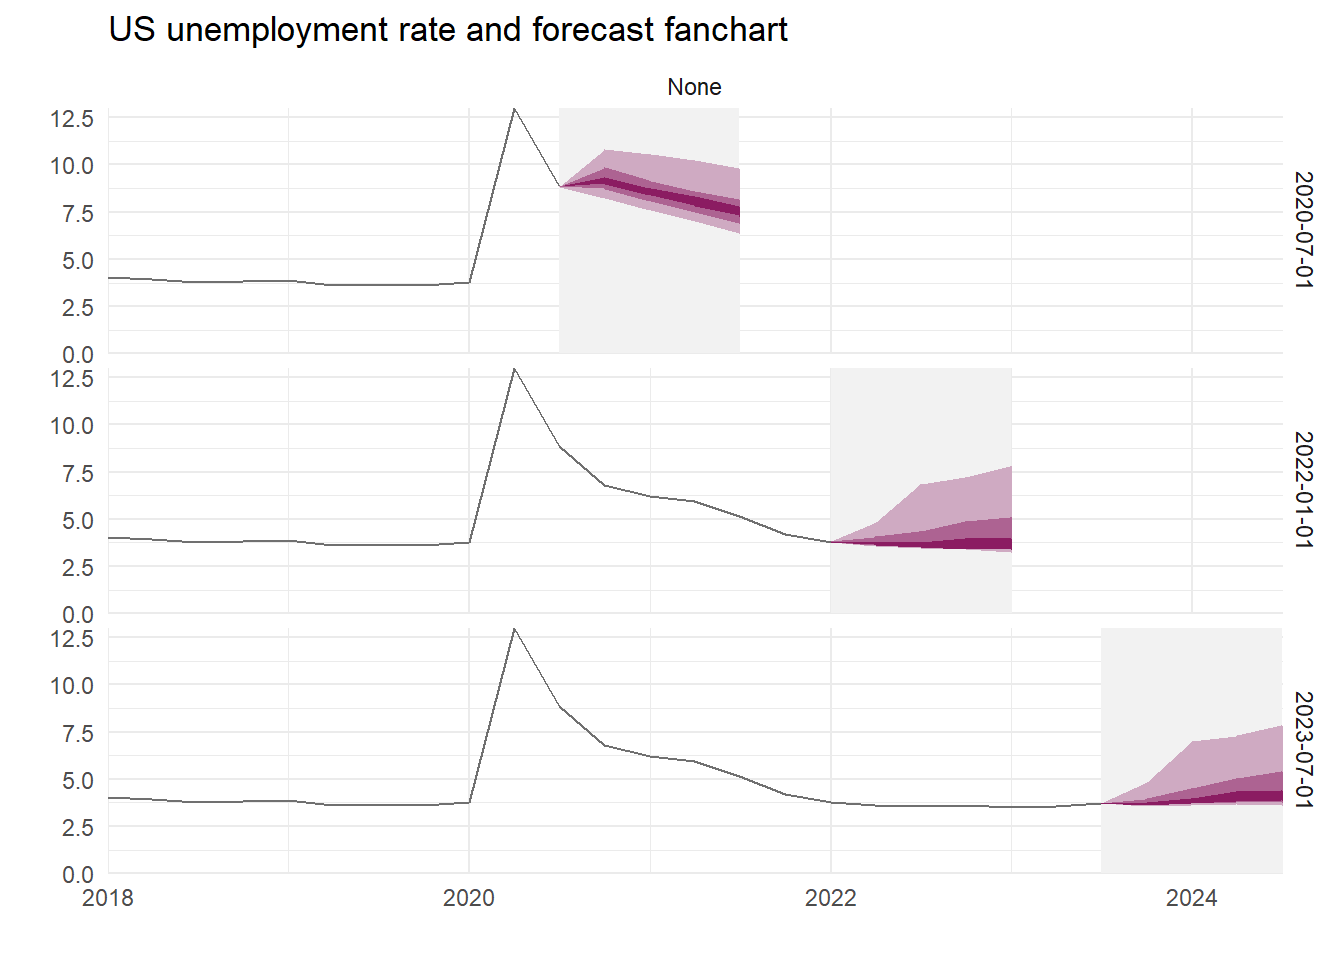
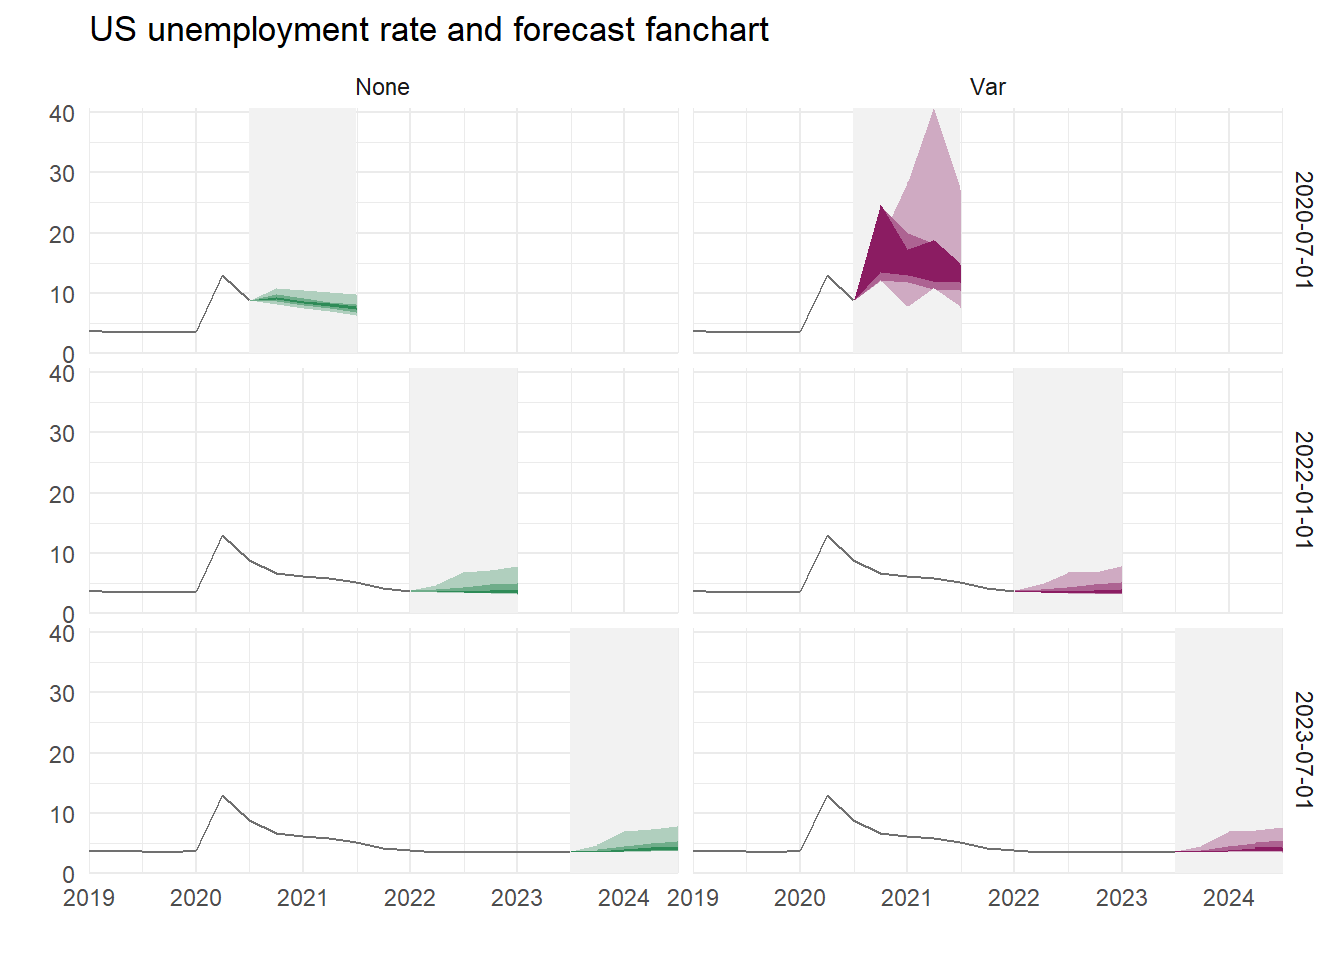
add var to qr fan

diff --git a/docs/FansQR.html b/docs/FansQR.html
@@ -561,9 +561,9 @@ div.csl-indent {
 <span id="cb2-45"><a href="#cb2-45" aria-hidden="true" tabindex="-1"></a>K   <span class="ot">&lt;-</span> <span class="dv">12</span></span>
 <span id="cb2-46"><a href="#cb2-46" aria-hidden="true" tabindex="-1"></a>nt  <span class="ot">&lt;-</span> <span class="dv">6</span></span>
 <span id="cb2-47"><a href="#cb2-47" aria-hidden="true" tabindex="-1"></a></span>
-<span id="cb2-48"><a href="#cb2-48" aria-hidden="true" tabindex="-1"></a>ystart <span class="ot">&lt;-</span> <span class="dv">2017</span></span>
-<span id="cb2-49"><a href="#cb2-49" aria-hidden="true" tabindex="-1"></a>meas   <span class="ot">&lt;-</span> <span class="fu">c</span>(<span class="st">"None"</span>) <span class="co">#c("None", "Var")</span></span>
-<span id="cb2-50"><a href="#cb2-50" aria-hidden="true" tabindex="-1"></a>setype <span class="ot">&lt;-</span> <span class="st">"boot"</span> <span class="co"># "rank" # "boot" "nid"</span></span>
+<span id="cb2-48"><a href="#cb2-48" aria-hidden="true" tabindex="-1"></a>ystart <span class="ot">&lt;-</span> <span class="dv">2018</span></span>
+<span id="cb2-49"><a href="#cb2-49" aria-hidden="true" tabindex="-1"></a>meas   <span class="ot">&lt;-</span> <span class="fu">c</span>(<span class="st">"None"</span>, <span class="st">"Var"</span>)</span>
+<span id="cb2-50"><a href="#cb2-50" aria-hidden="true" tabindex="-1"></a>setype <span class="ot">&lt;-</span> <span class="st">"rank"</span> <span class="co"># "rank" # "boot" "nid"</span></span>
 <span id="cb2-51"><a href="#cb2-51" aria-hidden="true" tabindex="-1"></a></span>
 <span id="cb2-52"><a href="#cb2-52" aria-hidden="true" tabindex="-1"></a>ares <span class="ot">&lt;-</span> <span class="cn">NULL</span></span>
 <span id="cb2-53"><a href="#cb2-53" aria-hidden="true" tabindex="-1"></a><span class="cf">for</span> (samp <span class="cf">in</span> <span class="fu">seq</span>(N<span class="sc">-</span>K,N,nt)) {</span>
